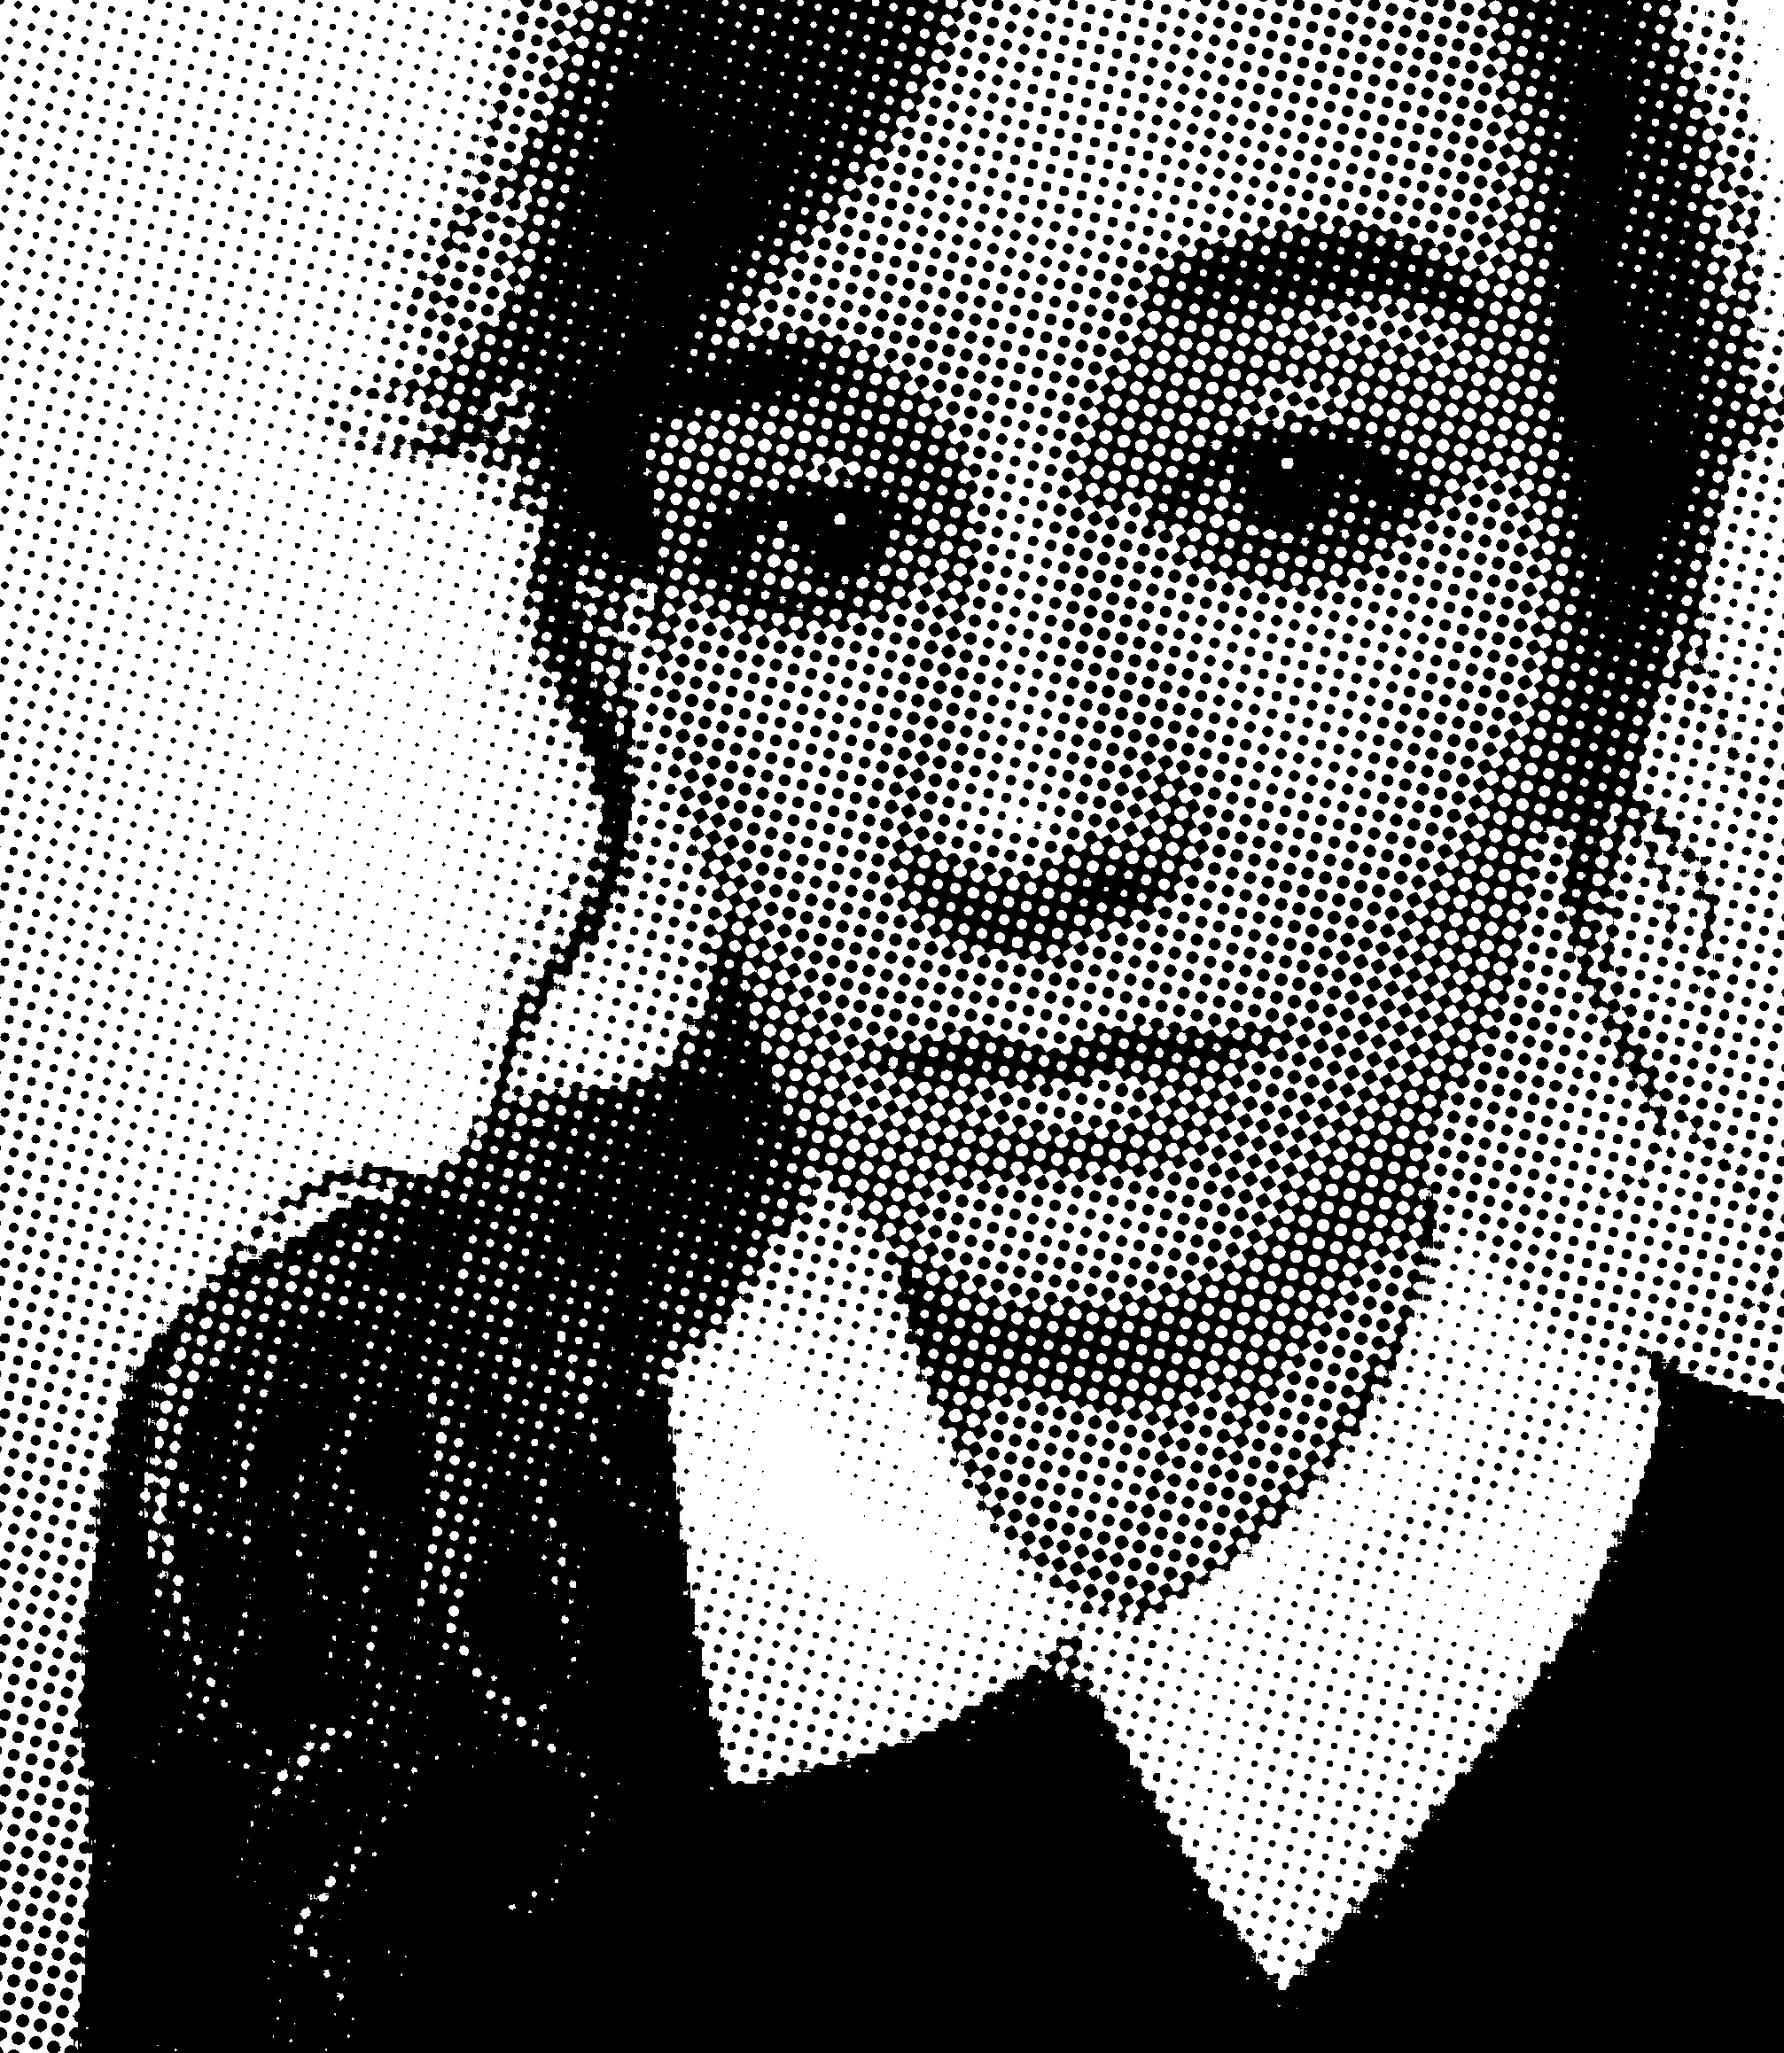
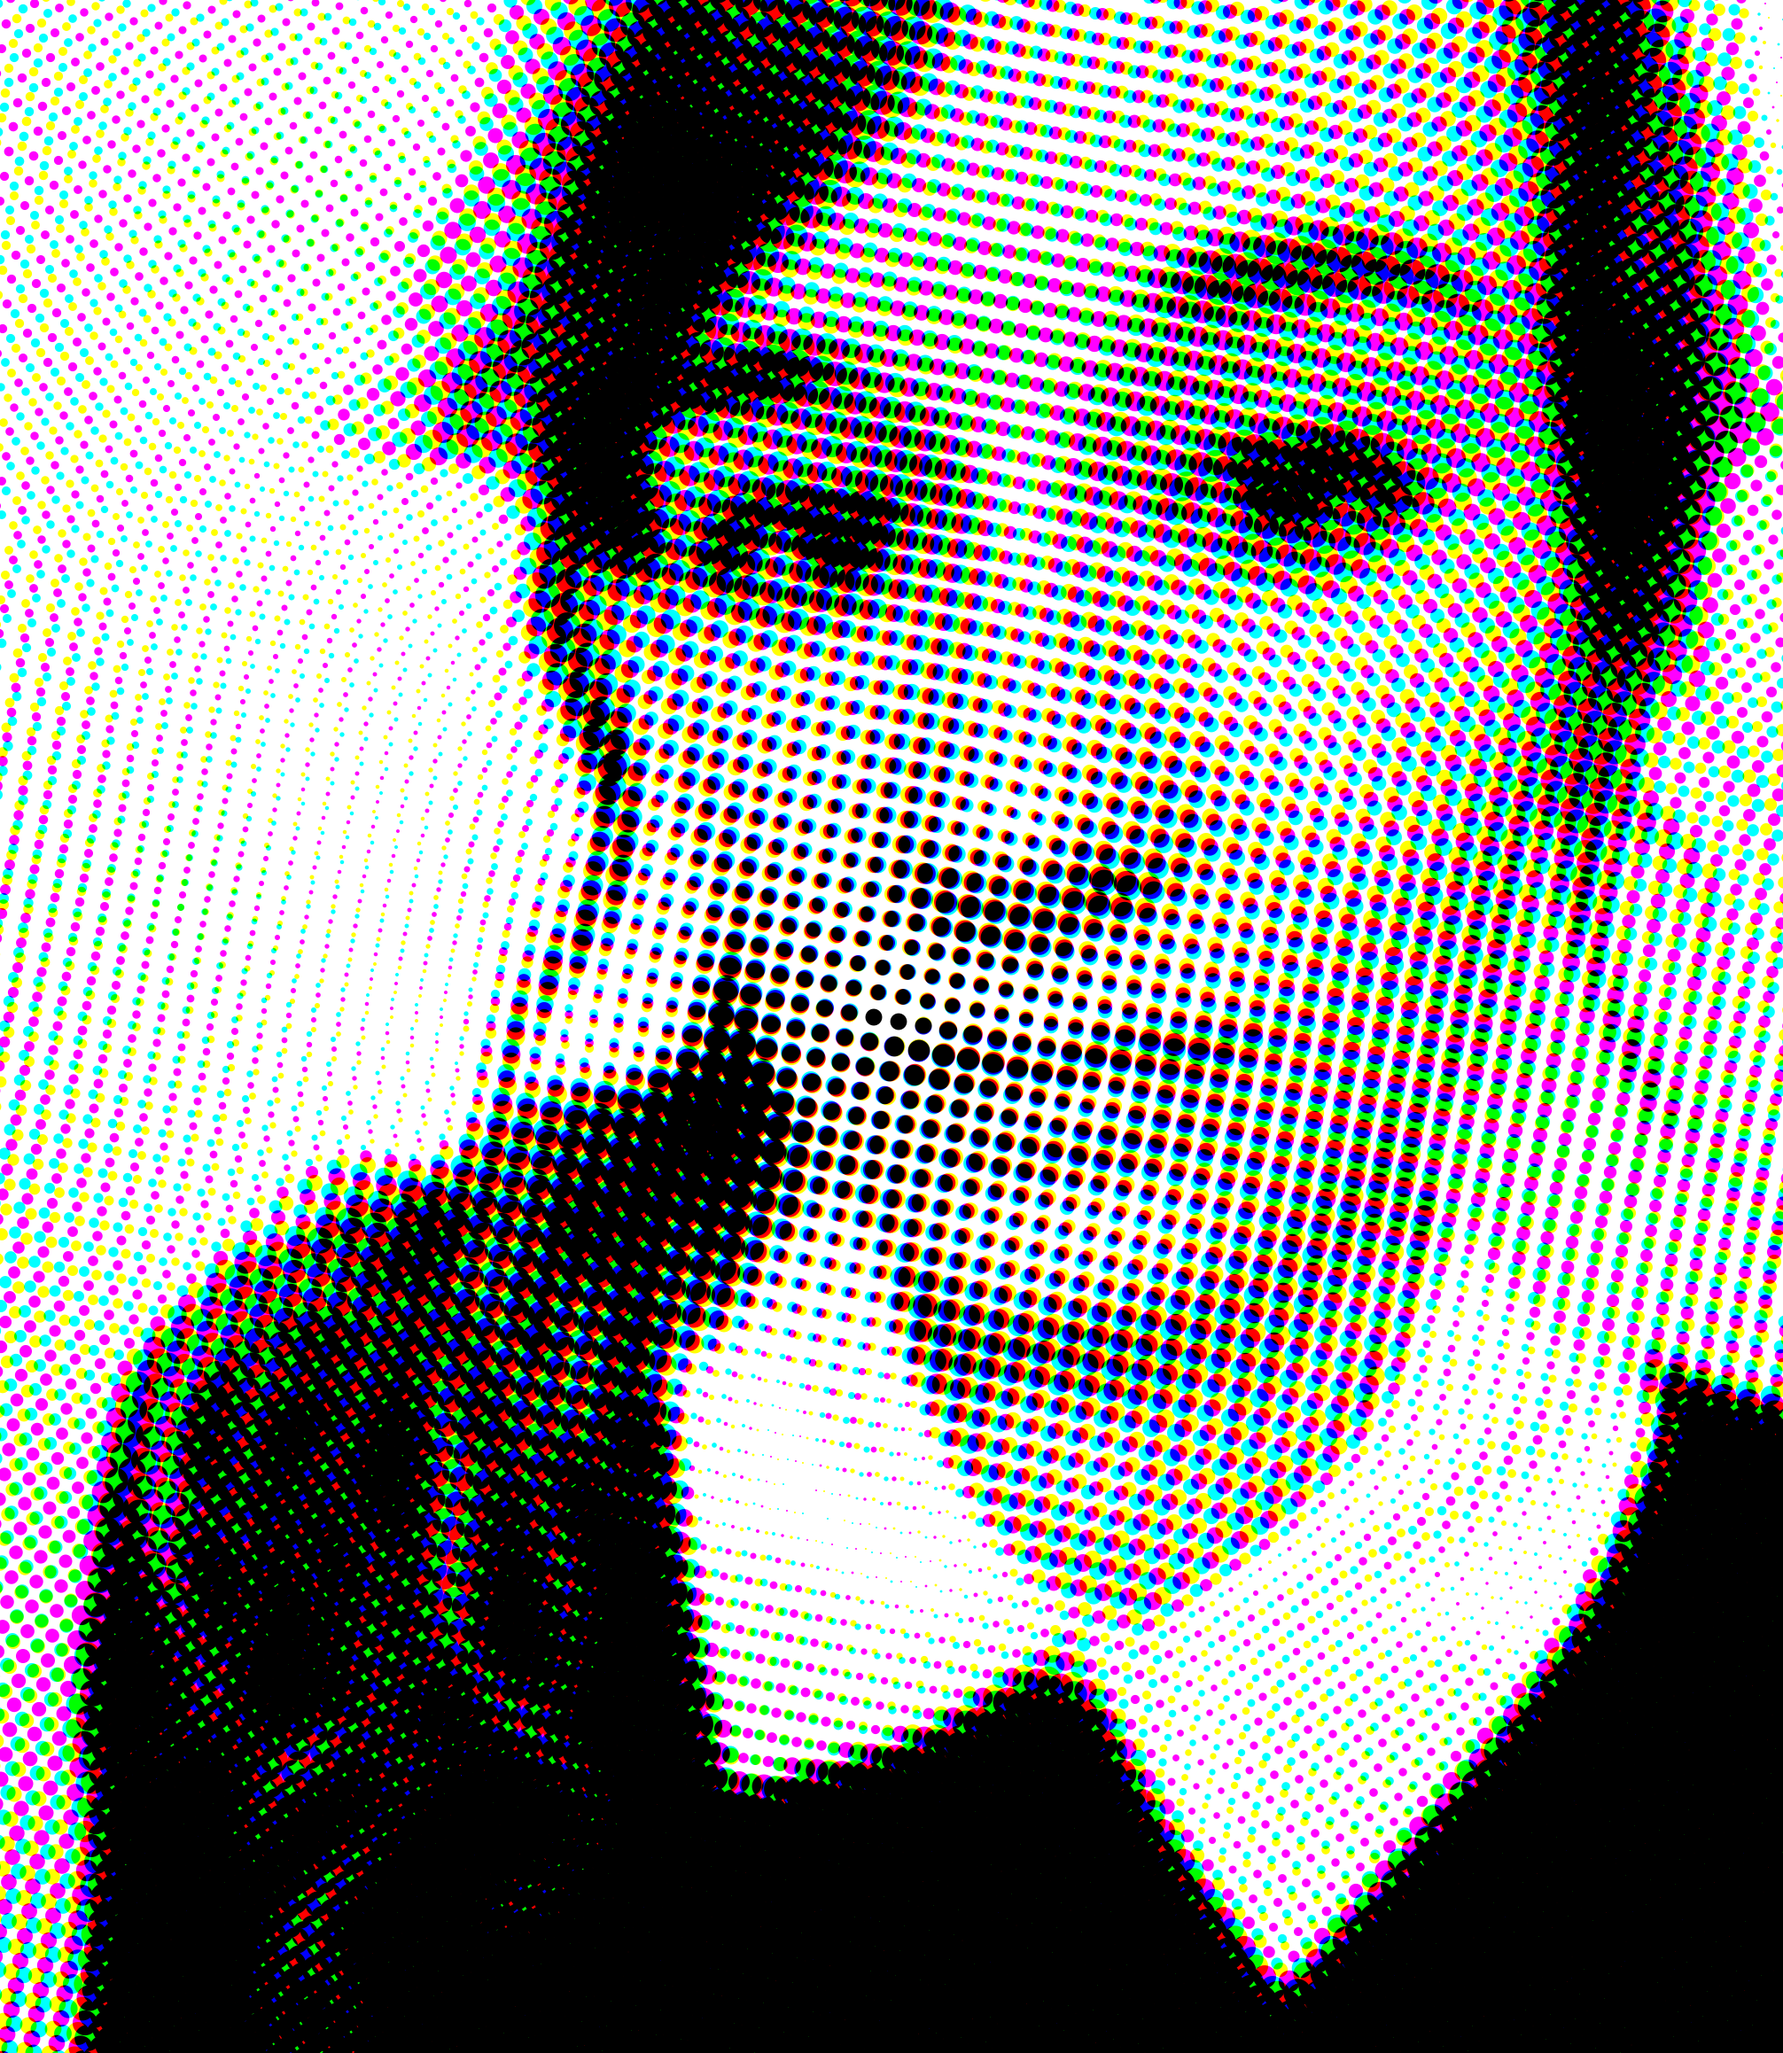
updated site

diff --git a/assets/portfolio.html b/assets/portfolio.html
@@ -37,34 +37,40 @@
                         <tr>
                             <th scope="col">
                                 <div class="box">
-                                <img src="./images/typeography.jpg" alt="Image of letters">
-                                
+                                <a href="https://boaardz56.github.io/Nightlife/">
+                                <img src="./images/nightlife.PNG" alt="Image Nightlife Website homepage">
+                                </a>
                                 <div class="text">
-                                    <h2>Word Guess</h2>
+                                    <h2>Nightlife</h2>
                                 </div>
                                 </div>
                             </th>
                             <th scope="col">
                                 <div class="box">
-                                <img src="./images/legend.jpg" alt="Legend of Zelda RPG Image">
+
+                                <a href="https://saarahah.github.io/Javascript-Coding-Quiz-Homework/">
+                                <img src="./images/codequiz.PNG" alt="Code Quiz Question">
+                                </a>
                                 
                                 <div class="text">
-                                    <h2>RPG Game</h2>
+                                    <h2>Code Quiz</h2>
                                 </div>
                                 </div>
                             </th>
                         </tr>
                         <tr>
                             <th scope="col">
-                                <div class="box">
-                                <img src="./images/trivia.jpg" alt="Image of Trivial Pursuit Game">
+                                <div class="box"> 
+                                    <a href="https://saarahah.github.io/Homework-5-Day-Planner/">
+                                <img src="./images/dayplanner.PNG" alt="Image of Work Day Scheduler">
+                            </a> 
                                 
                                 <div class="text">
-                                    <h2>Trivia Game</h2>
+                                    <h2>Day Planner</h2>
                                 </div>
                                 </div>
                             </th>
-                            <th scope="col">
+                            <!-- <th scope="col">
                                 <div class="box">
                                 <img src="./images/info.png" alt="Image of info widget illustration">
                                 
@@ -83,7 +89,7 @@
                                     <h2>Rock Paper Scissors</h2>
                                 </div>
                                 </div>
-                            </th>
+                            </th> -->
                         </tr>
                         </tbody>
                 </table>

diff --git a/index.html b/index.html
@@ -33,10 +33,15 @@
                 <h1>About Me</h1>
                 <hr>
             <figure>
-                <img src="./assets/images/mehalftone2.png" alt="Image of myself" class="aboutImage mr-4">
+                <img src="./assets/images/mehalftone.png" alt="Image of myself" class="aboutImage mr-4">
                 <p>Sarah Ferguson is a multimedia artist and coder living in the Orlando area. She most recently worked for Disney Creative Group as a 3D artist within the merchandising department. Previously, Sarah received an MFA in digital art from Louisiana State University where she focused on creating art that combined technology and traditional media. 
                 </p>
                 <p>As a current student in UCF’s coding bootcamp, Sarah is learning full stack development and broadening her coding abilities. This portfolio contains examples of work done for the bootcamp. Projects were done using the Bootstrap Framework, Javascript, JQuery, HTML and CSS. 
+                </p>
+                <p>
+                  <a href="https://github.com/saarahah">Github</a>
+                  <a href="https://www.linkedin.com/in/sarah-ferguson-2685401ab">| LinkedIn |</a>
+                  <a href="https://drive.google.com/file/d/1t9cksVL03TtbtnHX3wP_eJWfZagNY9k9/view?usp=sharing">Resume</a>
                 </p>
                 
               </figure>
